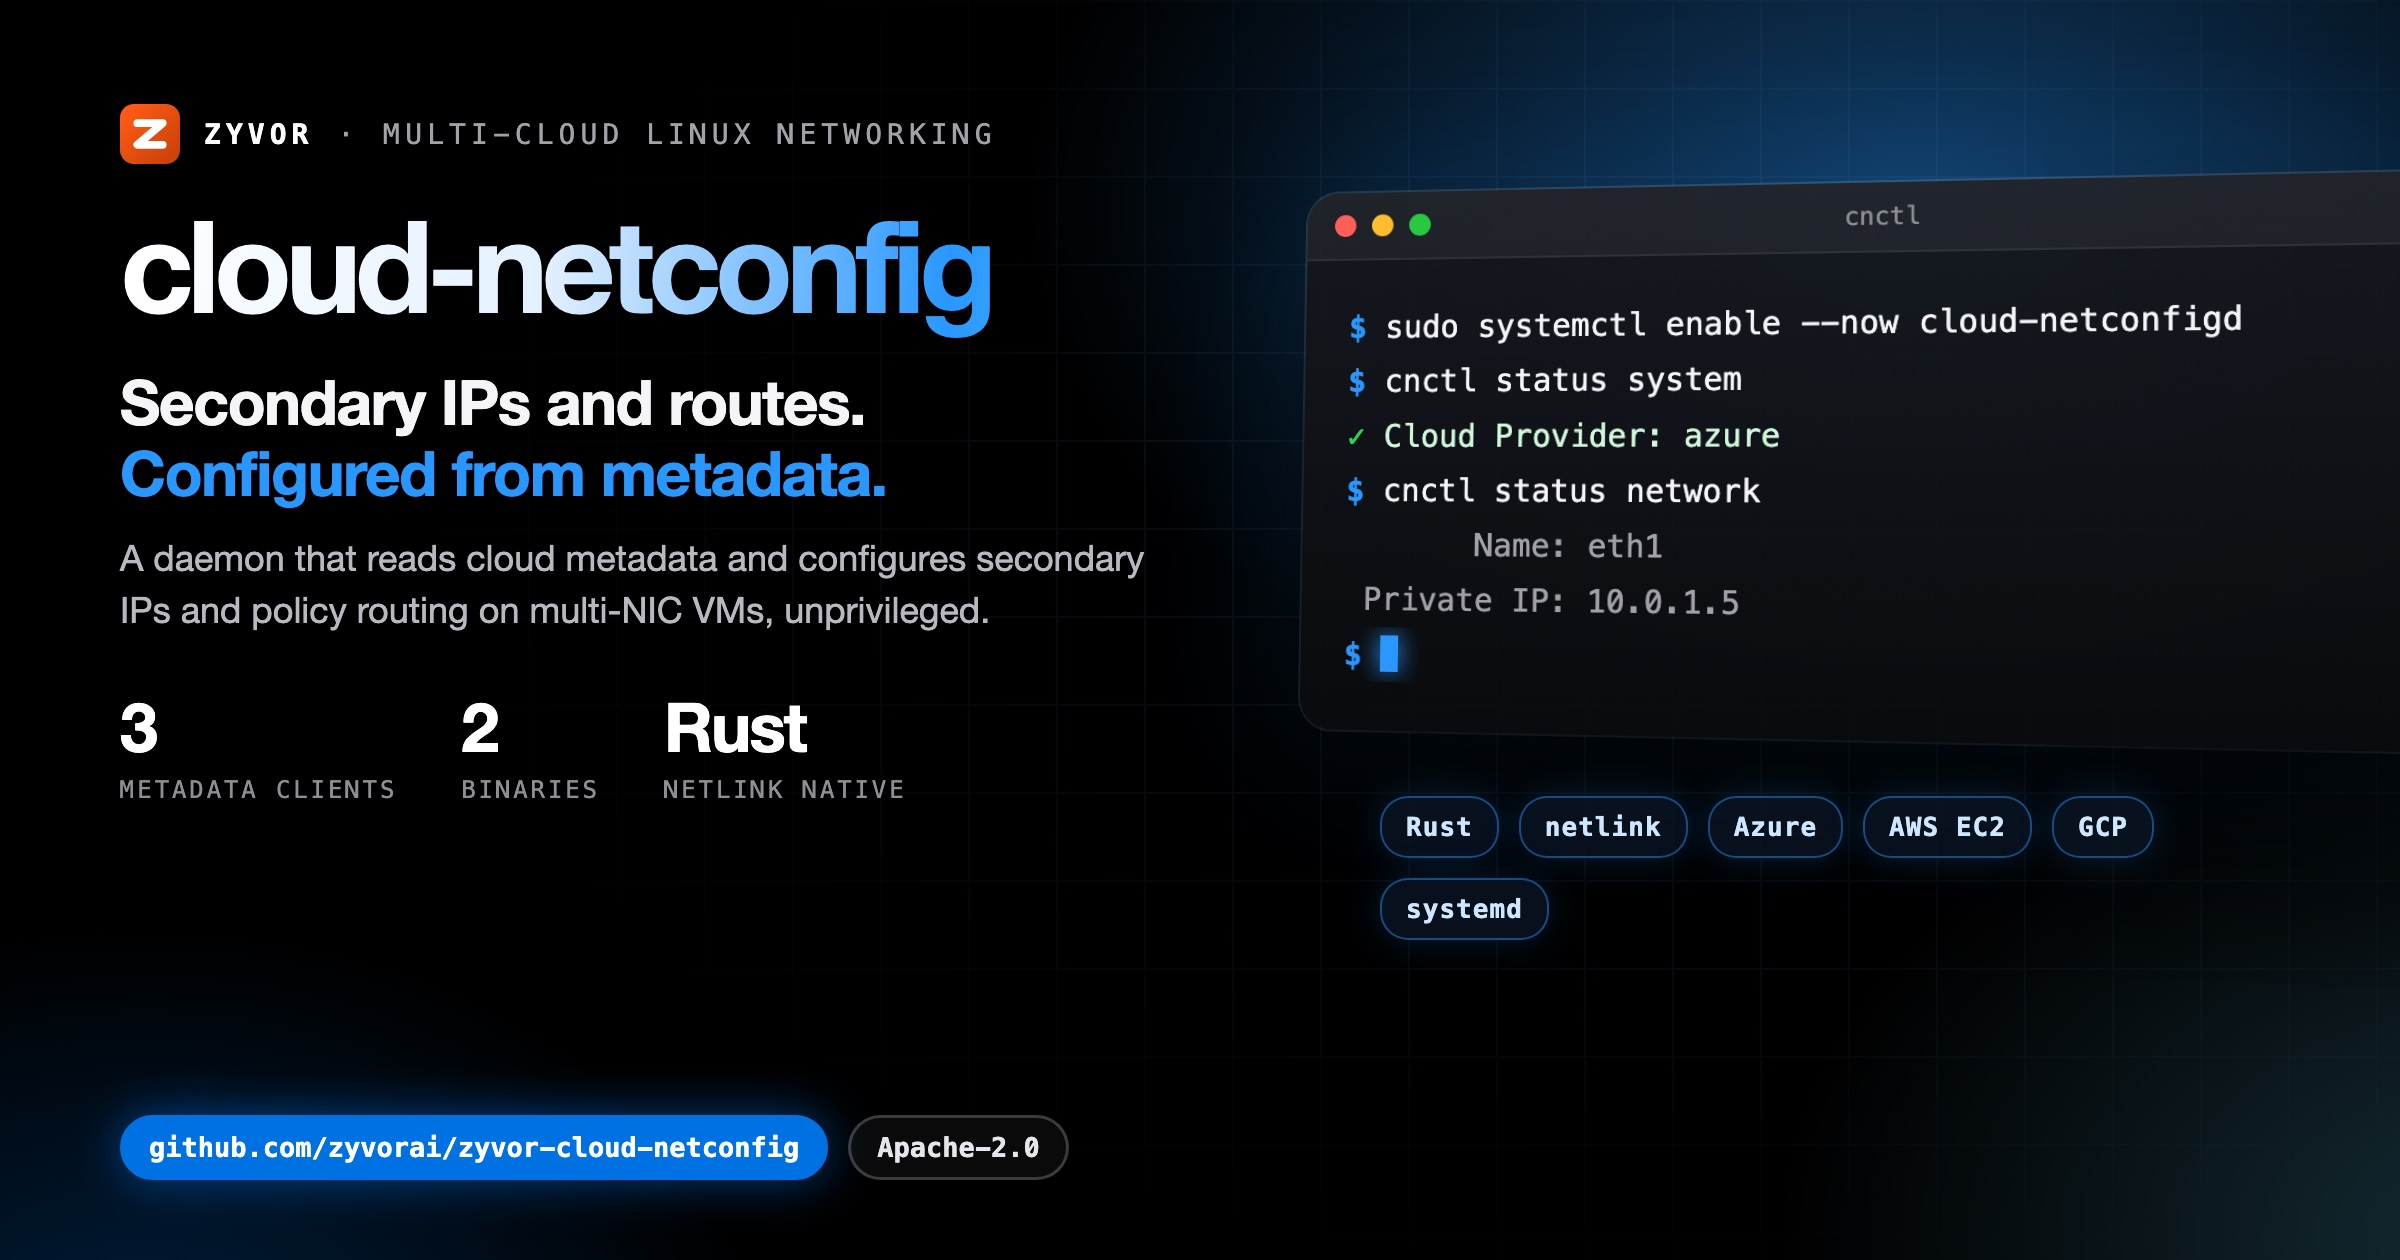
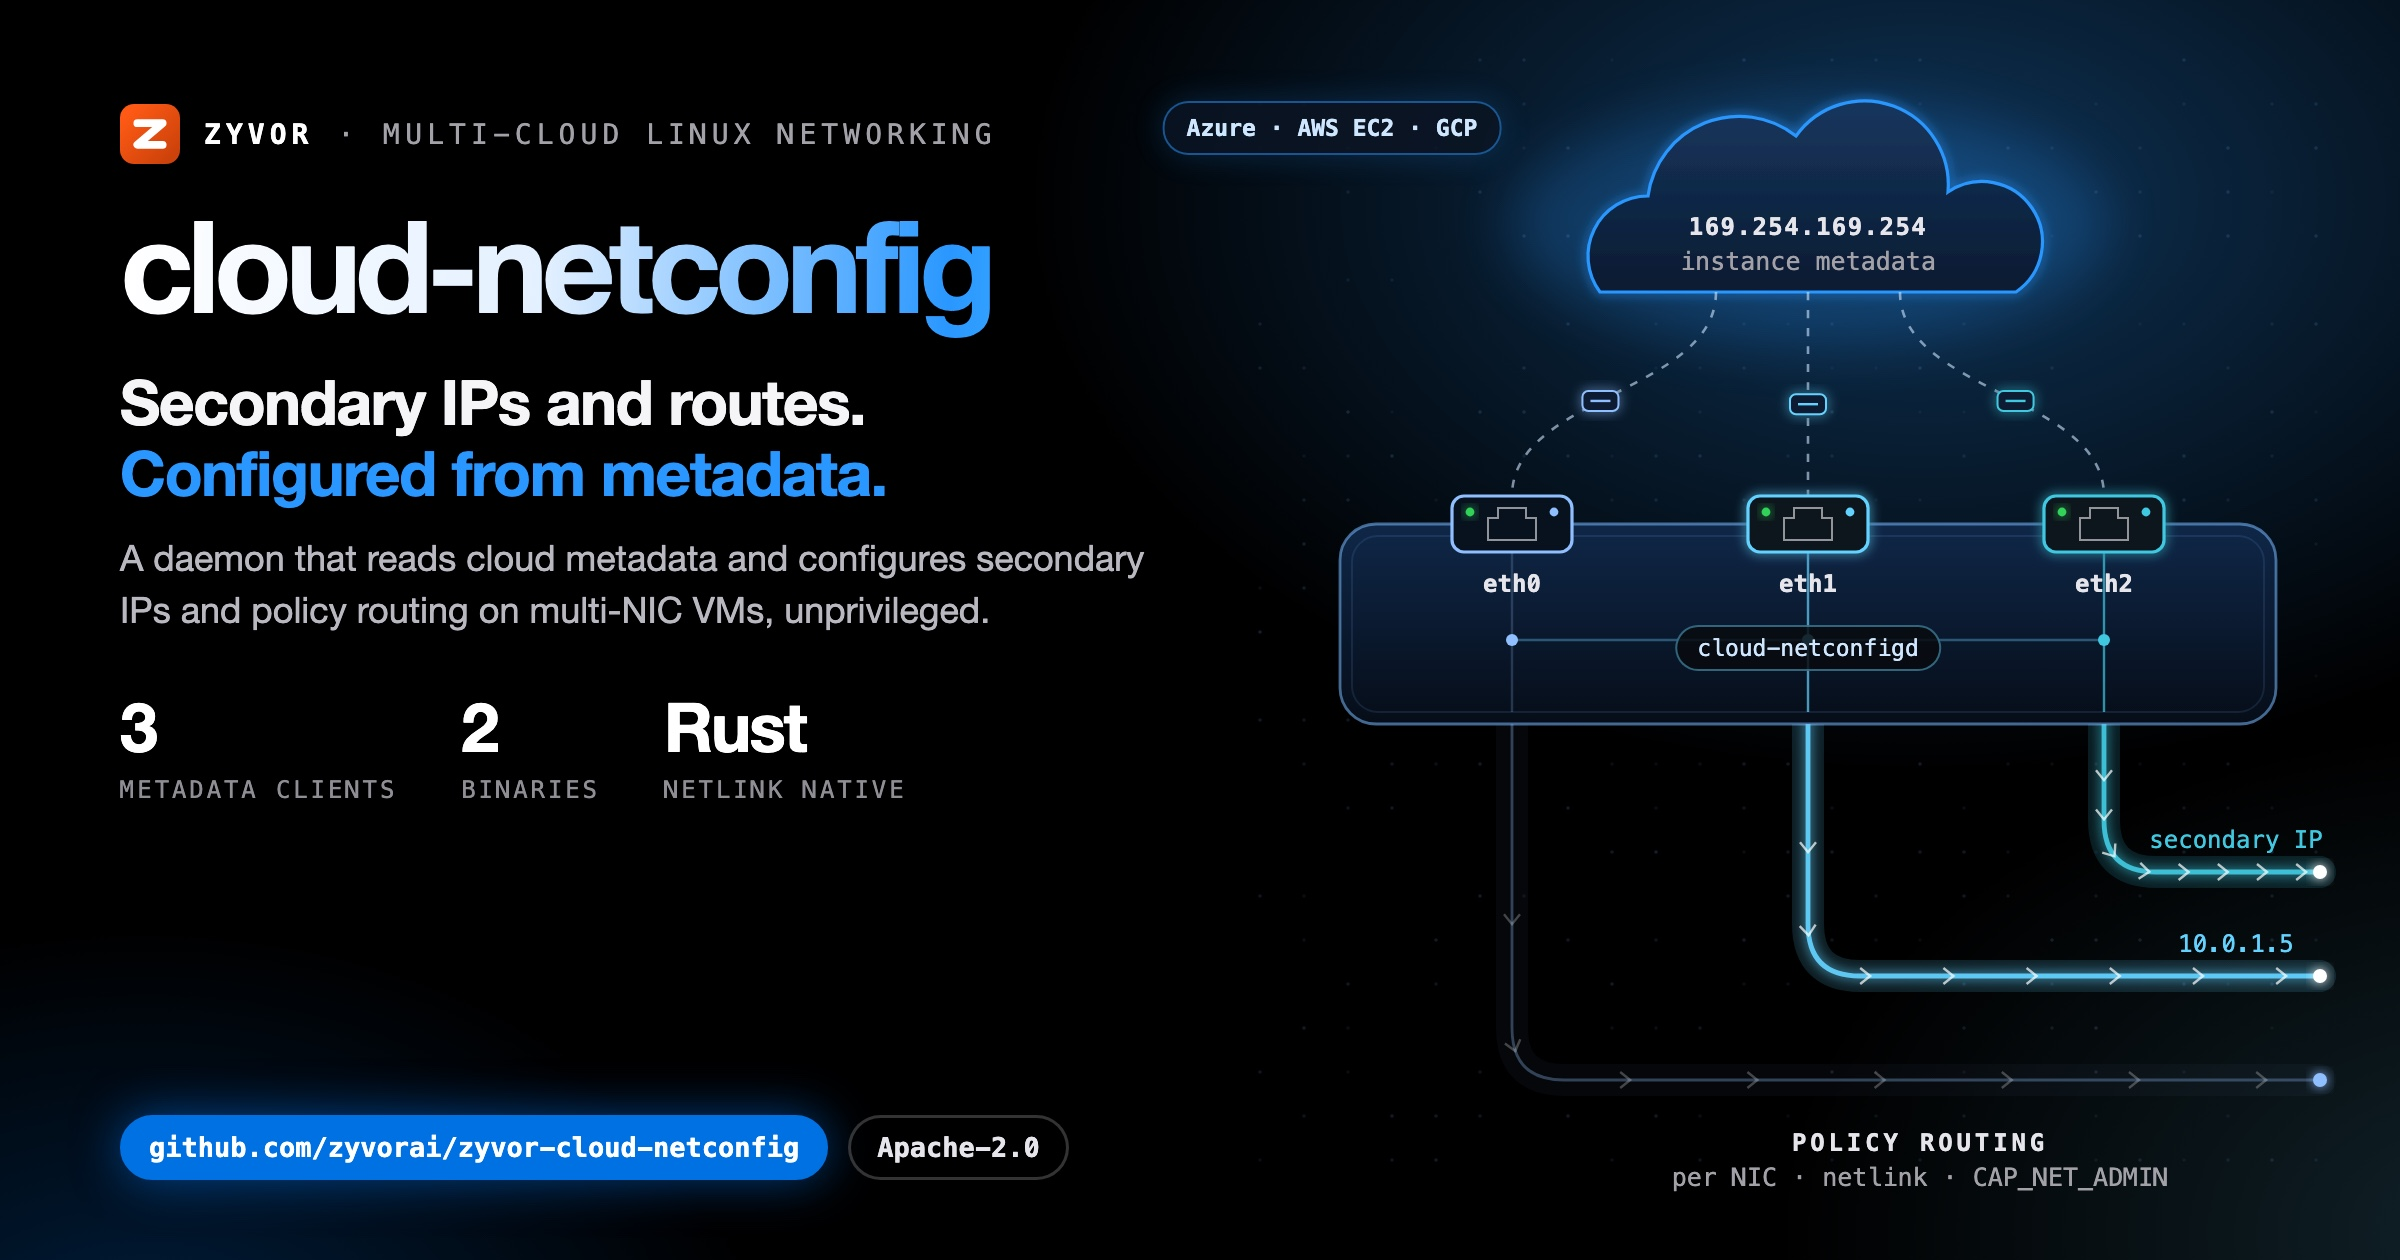
docs(social): unique illustrated hero card
Replace the shared terminal-window art with a motif drawn for this project;
same verified copy and stats on the left.

Changed region(s): [[0.4688, 0.0619, 1.0, 0.8048], [0.6875, 0.8976, 0.9062, 0.9595], [0.6562, 0.8357, 0.9688, 0.8667]]

diff --git a/docs/social/cloud-netconfig-hero-dark.html b/docs/social/cloud-netconfig-hero-dark.html
@@ -8,58 +8,47 @@
   Build: ./docs/social/build-hero-dark.sh  ->  cloud-netconfig-hero-dark.jpg (2400x1260)
 -->
 <style>
-  :root { --blue:#0071e3; --signal:#2997ff; --cyan:#64d2ff; --green:#30d158; --amber:#ff9f0a;
+  :root { --blue:#0071e3; --signal:#2997ff; --cyan:#64d2ff; --green:#30d158; --amber:#ff9f0a; --red:#ff453a; --violet:#bf5af2;
     --sans:'SF Pro Display','Helvetica Neue',Helvetica,Arial,sans-serif; --mono:'SF Mono',Menlo,Consolas,monospace; }
   * { box-sizing:border-box; }
   html,body { margin:0; padding:0; }
   body { width:1200px; height:630px; overflow:hidden; color:#f5f5f7; font-family:var(--sans); position:relative; background:#000; }
   .aurora { position:absolute; inset:0;
-    background:radial-gradient(720px 460px at 80% 16%, rgba(41,151,255,.40), transparent 62%),
-               radial-gradient(600px 420px at 104% 98%, rgba(100,210,255,.20), transparent 60%),
+    background:radial-gradient(720px 460px at 80% 16%, rgba(41,151,255,.34), transparent 62%),
+               radial-gradient(600px 420px at 104% 98%, rgba(100,210,255,.16), transparent 60%),
                radial-gradient(520px 380px at 6% 110%, rgba(0,113,227,.28), transparent 60%); }
-  .grid { position:absolute; inset:0; opacity:.09;
-    background-image:linear-gradient(rgba(120,180,255,.9) 1px,transparent 1px),linear-gradient(90deg,rgba(120,180,255,.9) 1px,transparent 1px);
-    background-size:44px 44px; -webkit-mask-image:radial-gradient(900px 520px at 72% 42%, #000 18%, transparent 75%); }
-  .left { position:absolute; left:60px; top:52px; width:560px; z-index:3; }
+  .copy { position:absolute; left:60px; top:52px; width:560px; z-index:3; }
   .brand { display:flex; align-items:center; gap:12px; font-family:var(--mono); font-size:14px; letter-spacing:.18em; text-transform:uppercase; color:#a1a1a6; }
   .brand b { color:#fff; }
   .word { margin:20px 0 0; font-size:64px; line-height:.95; font-weight:800; letter-spacing:-.05em; white-space:nowrap;
     background:linear-gradient(92deg,#fff 0%,#e3f0ff 38%,var(--signal) 74%,var(--cyan) 100%); -webkit-background-clip:text; background-clip:text; color:transparent; padding-bottom:6px; }
   .tag { margin:14px 0 0; font-size:31px; line-height:1.15; font-weight:700; letter-spacing:-.02em; }
   .tag em { font-style:normal; color:var(--signal); }
-  .lede { margin:12px 0 0; font-size:18px; line-height:1.45; color:#b8b8bf; width:520px; }
+  .lede { margin:12px 0 0; font-size:18px; line-height:1.45; color:#b8b8bf; width:520px; text-shadow:0 1px 12px #000; }
   .stats { margin-top:24px; display:flex; gap:32px; }
   .stat b { display:block; font-size:34px; font-weight:800; letter-spacing:-.03em; color:#fff; }
   .stat span { font-family:var(--mono); font-size:12px; letter-spacing:.12em; text-transform:uppercase; color:#8e8e93; }
   .pill { position:absolute; left:60px; bottom:40px; display:flex; gap:10px; z-index:3; }
-  .pill span { font-family:var(--mono); font-size:13.5px; font-weight:700; padding:7px 13px; border-radius:18px; border:1.5px solid rgba(255,255,255,.2); color:#e5e5ea; background:rgba(255,255,255,.04); }
+  .pill span { font-family:var(--mono); font-size:13.5px; font-weight:700; padding:7px 13px; border-radius:18px; border:1.5px solid rgba(255,255,255,.2); color:#e5e5ea; background:rgba(0,0,0,.6); }
   .pill span.b { background:var(--blue); border-color:var(--blue); color:#fff; box-shadow:0 0 24px rgba(0,113,227,.55); }
-
-  .right { position:absolute; left:652px; top:96px; width:560px; z-index:2; }
-  .win { position:relative; width:560px; border-radius:16px; overflow:hidden; z-index:2;
-    background:linear-gradient(180deg, rgba(22,24,30,.94), rgba(10,11,14,.96));
-    box-shadow:0 50px 100px rgba(0,0,0,.75), 0 0 0 1px rgba(255,255,255,.14), 0 0 90px rgba(41,151,255,.22);
-    transform:perspective(1600px) rotateY(-14deg) rotateX(4deg); transform-origin:left center; }
-  .bar { height:34px; display:flex; align-items:center; gap:8px; padding:0 14px; background:rgba(255,255,255,.05); border-bottom:1px solid rgba(255,255,255,.07); }
-  .bar i { width:11px; height:11px; border-radius:50%; background:#ff5f57; } .bar i:nth-child(2){background:#febc2e} .bar i:nth-child(3){background:#28c840}
-  .bar em { margin-left:auto; margin-right:auto; font-style:normal; font-family:var(--mono); font-size:12px; color:#8e8e93; transform:translateX(-24px); }
-  .term { min-height:214px; padding:20px 22px 24px; font-family:var(--mono); font-size:15.5px; line-height:1.75; }
-  .l { white-space:pre; overflow:hidden; text-overflow:ellipsis; color:#f5f5f7; }
-  .l .p { color:var(--signal); font-weight:700; }
-  .l.out { color:#a1a1a6; }
-  .l.cm { color:#6e6e73; }
-  .l.ok { color:#d1f7dc; } .l.ok span { color:var(--green); font-weight:700; }
-  .l.warn { color:#ffe1b0; } .l.warn span { color:var(--amber); font-weight:700; }
-  .cur { display:inline-block; width:9px; height:18px; background:var(--signal); vertical-align:-3px; box-shadow:0 0 12px var(--signal); }
-  .chips { margin:34px 0 0 38px; width:480px; display:flex; flex-wrap:wrap; gap:10px; position:relative; z-index:3; }
-  .chips span { font-family:var(--mono); font-size:13px; font-weight:700; letter-spacing:.04em; padding:7px 12px; border-radius:14px;
-    color:#cfe6ff; background:rgba(10,20,35,.82); border:1px solid rgba(41,151,255,.45); box-shadow:0 0 18px rgba(41,151,255,.18); }
+  .art { position:absolute; left:520px; top:0; width:680px; height:630px; z-index:2; }
+  .art svg { display:block; }
+  #labels { position:absolute; inset:0; z-index:4; pointer-events:none; }
+  .lbl { position:absolute; font-family:var(--mono); font-size:12.5px; color:#a1a1a6; text-align:center; transform:translate(-50%,-50%); white-space:nowrap; }
+  .lbl b { display:block; font-size:12px; letter-spacing:.16em; text-transform:uppercase; color:#e5e5ea; }
+  .lbl span { display:block; margin-top:3px; }
+  .lbl.box { padding:7px 12px; border-radius:12px; background:rgba(8,10,14,.85); border:1px solid rgba(255,255,255,.14); }
+  .lbl.chip { padding:6px 11px; border-radius:13px; font-size:12.5px; font-weight:700; color:#cfe6ff; background:rgba(10,20,35,.85); border:1px solid rgba(41,151,255,.5); box-shadow:0 0 16px rgba(41,151,255,.2); }
+  .lbl.left { transform:translate(0,-50%); text-align:left; }
+  .lbl.right { transform:translate(-100%,-50%); text-align:right; }
+  .ok { color:var(--green) !important; } .warn { color:var(--amber) !important; } .bad { color:var(--red) !important; } .sig { color:var(--signal) !important; } .cy { color:var(--cyan) !important; } .vi { color:var(--violet) !important; }
 </style>
 </head>
 <body>
 <div class="aurora"></div>
-<div class="grid"></div>
-<div class="left">
+<div class="art"><svg id="art" width="680" height="630" viewBox="0 0 680 630" xmlns="http://www.w3.org/2000/svg"></svg></div>
+<div id="labels"></div>
+<div class="copy">
   <div class="brand"><svg viewBox="0 0 64 64" width="30" height="30" aria-hidden="true"><defs><linearGradient id="zb" x1="8" y1="8" x2="56" y2="56" gradientUnits="userSpaceOnUse"><stop offset="0" stop-color="#ff5a15"/><stop offset="1" stop-color="#cc420a"/></linearGradient></defs><rect width="64" height="64" rx="15" fill="url(#zb)"/><path d="M18.5,20.5 45.5,20.5 18.5,43.5 45.5,43.5" fill="none" stroke="#fff" stroke-width="8.3" stroke-linecap="round" stroke-linejoin="round"/></svg><b>Zyvor</b><span>&middot;</span><span>Multi-cloud Linux networking</span></div>
   <div class="word">cloud-netconfig</div>
   <div class="tag">Secondary IPs and routes.<br><em>Configured from metadata.</em></div>
@@ -67,8 +56,100 @@
   <div class="stats"><div class="stat"><b>3</b><span>metadata clients</span></div><div class="stat"><b>2</b><span>binaries</span></div><div class="stat"><b>Rust</b><span>netlink native</span></div></div>
 </div>
 <div class="pill"><span class="b">github.com/zyvorai/zyvor-cloud-netconfig</span><span>Apache-2.0</span></div>
-<div class="right"><div class="win"><div class="bar"><i></i><i></i><i></i><em>cnctl</em></div>
-<div class="term"><div class="l"><span class="p">$</span> sudo systemctl enable --now cloud-netconfigd</div><div class="l"><span class="p">$</span> cnctl status system</div><div class="l ok"><span>&#10003;</span> Cloud Provider: azure</div><div class="l"><span class="p">$</span> cnctl status network</div><div class="l out">       Name: eth1</div><div class="l out"> Private IP: 10.0.1.5</div><div class="l"><span class="p">$</span> <i class="cur"></i></div></div></div>
-<div class="chips"><span>Rust</span><span>netlink</span><span>Azure</span><span>AWS EC2</span><span>GCP</span><span>systemd</span></div></div>
+<script>
+var Z = (function () {
+  var NS = 'http://www.w3.org/2000/svg', svg = document.getElementById('art'), labels = document.getElementById('labels');
+  var seed = 20261004;
+  function rnd() { seed = (seed * 1103515245 + 12345) % 2147483648; return seed / 2147483648; }
+  function el(tag, a, parent) { var n = document.createElementNS(NS, tag); for (var k in a) n.setAttribute(k, a[k]); (parent || svg).appendChild(n); return n; }
+  function g(attrs) { return el('g', attrs || {}); }
+  function label(x, y, inner, cls, style) { var d = document.createElement('div'); d.className = 'lbl ' + (cls || ''); d.style.left = (520 + x) + 'px'; d.style.top = y + 'px'; if (style) d.setAttribute('style', d.getAttribute('style') + ';' + style); d.innerHTML = inner; labels.appendChild(d); return d; }
+  return { NS: NS, svg: svg, W: 680, H: 630, rnd: rnd, el: el, g: g, label: label,
+    reseed: function (s) { seed = s; },
+    c: { blue: '#0071e3', signal: '#2997ff', cyan: '#64d2ff', green: '#30d158', amber: '#ff9f0a', red: '#ff453a', violet: '#bf5af2', teal: '#40c8e0', indigo: '#5e5ce6', pink: '#ff375f', white: '#f5f5f7', grey: '#8e8e93' } };
+})();
+(function () {
+// cloud-netconfig: a multi-NIC VM under the cloud metadata endpoint (169.254.169.254).
+// Dashed metadata drops land on each NIC port; each NIC leaves the VM on its own glowing policy-routing lane.
+var C = Z.c;
+var defs = Z.el('defs', {});
+defs.innerHTML = '<filter id="cnGl" x="-50%" y="-50%" width="200%" height="200%"><feGaussianBlur stdDeviation="3" result="b"/><feMerge><feMergeNode in="b"/><feMergeNode in="SourceGraphic"/></feMerge></filter>' +
+  '<filter id="cnSf" x="-50%" y="-50%" width="200%" height="200%"><feGaussianBlur stdDeviation="14"/></filter>' +
+  '<linearGradient id="cnVm" x1="0" y1="0" x2="0" y2="1"><stop offset="0" stop-color="#0f2748"/><stop offset="1" stop-color="#060d18"/></linearGradient>' +
+  '<linearGradient id="cnCl" x1="0" y1="0" x2="0" y2="1"><stop offset="0" stop-color="#16365e"/><stop offset="1" stop-color="#0a1a30"/></linearGradient>';
+
+// faint dotted backplane
+for (var gx = 110; gx <= 650; gx += 22) for (var gy = 30; gy <= 600; gy += 22) {
+  if (Z.rnd() < 0.55) continue;
+  Z.el('circle', { cx: gx, cy: gy, r: .9, fill: '#7fb6ff', opacity: (0.06 + Z.rnd() * 0.1).toFixed(2) });
+}
+
+var nics = [
+  { n: 'eth0', x: 236, col: '#5e7fa8', laneY: 540, dim: 1 },
+  { n: 'eth1', x: 384, col: C.cyan, laneY: 488 },
+  { n: 'eth2', x: 532, col: C.teal, laneY: 436 }
+];
+var vmX = 150, vmY = 262, vmW = 468, vmH = 100;
+
+// cloud metadata endpoint
+var mx = 384, my = 112;
+Z.el('ellipse', { cx: mx, cy: my, rx: 150, ry: 60, fill: '#2997ff', opacity: .22, filter: 'url(#cnSf)' });
+var cloud = 'M' + (mx - 104) + ',' + (my + 34) + ' A30,30 0 0 1 ' + (mx - 80) + ',' + (my - 14) + ' A46,46 0 0 1 ' + (mx - 6) + ',' + (my - 44) +
+  ' A42,42 0 0 1 ' + (mx + 70) + ',' + (my - 16) + ' A30,30 0 0 1 ' + (mx + 104) + ',' + (my + 34) + ' Z';
+Z.el('path', { d: cloud, fill: 'url(#cnCl)', stroke: C.signal, 'stroke-width': 1.6, filter: 'url(#cnGl)' });
+Z.label(mx, my + 10, '<b style="letter-spacing:.06em">169.254.169.254</b><span>instance metadata</span>');
+
+// metadata drops to each NIC
+nics.forEach(function (n, k) {
+  var sx = mx + (k - 1) * 46, sy = my + 34, ey = vmY - 14;
+  var d = 'M' + sx + ',' + sy + ' C' + sx + ',' + (sy + 50) + ' ' + n.x + ',' + (ey - 50) + ' ' + n.x + ',' + ey;
+  Z.el('path', { d: d, fill: 'none', stroke: '#cfe6ff', 'stroke-width': 1.3, 'stroke-dasharray': '4 5', opacity: .6 });
+  var tp = Z.el('path', { d: d, fill: 'none', stroke: 'none' }), L = tp.getTotalLength(), q = tp.getPointAtLength(L * 0.55);
+  Z.el('rect', { x: q.x - 9, y: q.y - 5, width: 18, height: 10, rx: 3, fill: '#0a1a30', stroke: n.dim ? '#8fbfff' : n.col, 'stroke-width': 1, filter: 'url(#cnGl)' });
+  Z.el('line', { x1: q.x - 5, y1: q.y, x2: q.x + 5, y2: q.y, stroke: n.dim ? '#8fbfff' : n.col, 'stroke-width': 1.2 });
+});
+
+// policy routing lanes (drawn before the VM so they emerge from its bottom edge)
+nics.forEach(function (n) {
+  var y0 = vmY + vmH - 6, r = 26;
+  var d = 'M' + n.x + ',' + y0 + ' L' + n.x + ',' + (n.laneY - r) + ' Q' + n.x + ',' + n.laneY + ' ' + (n.x + r) + ',' + n.laneY + ' L' + 640 + ',' + n.laneY;
+  Z.el('path', { d: d, fill: 'none', stroke: n.col, 'stroke-width': 16, 'stroke-linecap': 'round', opacity: n.dim ? .06 : .14 });
+  Z.el('path', { d: d, fill: 'none', stroke: n.col, 'stroke-width': n.dim ? 1.4 : 2.4, opacity: n.dim ? .5 : .95, filter: n.dim ? null : 'url(#cnGl)' });
+  var tp = Z.el('path', { d: d, fill: 'none', stroke: 'none' }), L = tp.getTotalLength();
+  for (var f = 0.18; f < 0.98; f += 0.11) {
+    var q = tp.getPointAtLength(L * f), q2 = tp.getPointAtLength(L * f + 1), ang = Math.atan2(q2.y - q.y, q2.x - q.x) * 180 / Math.PI;
+    Z.el('path', { d: 'M-3,-4 L2,0 L-3,4', transform: 'translate(' + q.x.toFixed(1) + ',' + q.y.toFixed(1) + ') rotate(' + ang.toFixed(1) + ')', fill: 'none', stroke: '#fff', 'stroke-width': 1.2, opacity: n.dim ? .25 : .7 });
+  }
+  Z.el('circle', { cx: 640, cy: n.laneY, r: 3.5, fill: n.dim ? '#8fbfff' : '#fff', filter: 'url(#cnGl)' });
+});
+
+// VM chassis
+Z.el('rect', { x: vmX, y: vmY, width: vmW, height: vmH, rx: 18, fill: 'url(#cnVm)', stroke: 'rgba(120,185,255,.55)', 'stroke-width': 1.4 });
+Z.el('rect', { x: vmX + 6, y: vmY + 6, width: vmW - 12, height: vmH - 12, rx: 13, fill: 'none', stroke: 'rgba(120,185,255,.12)' });
+// internal bus from daemon to each NIC
+var busY = vmY + 58;
+Z.el('line', { x1: nics[0].x, y1: busY, x2: nics[2].x, y2: busY, stroke: 'rgba(100,210,255,.35)', 'stroke-width': 1.2 });
+nics.forEach(function (n) {
+  Z.el('line', { x1: n.x, y1: vmY + 12, x2: n.x, y2: vmY + vmH - 6, stroke: n.col, 'stroke-width': 1.2, opacity: n.dim ? .35 : .7 });
+  Z.el('circle', { cx: n.x, cy: busY, r: 3, fill: n.dim ? '#8fbfff' : n.col });
+});
+// NIC ports on the top edge
+nics.forEach(function (n) {
+  var g = Z.g({ transform: 'translate(' + n.x + ',' + vmY + ')' });
+  Z.el('rect', { x: -30, y: -14, width: 60, height: 28, rx: 6, fill: '#08121f', stroke: n.dim ? '#8fbfff' : n.col, 'stroke-width': 1.6, filter: n.dim ? null : 'url(#cnGl)' }, g);
+  Z.el('path', { d: 'M-12,8 L-12,-3 L-7,-3 L-7,-8 L7,-8 L7,-3 L12,-3 L12,8 Z', fill: 'none', stroke: 'rgba(255,255,255,.55)', 'stroke-width': 1 }, g);
+  Z.el('circle', { cx: -21, cy: -6, r: 2.2, fill: C.green, filter: 'url(#cnGl)' }, g);
+  Z.el('circle', { cx: 21, cy: -6, r: 2.2, fill: n.dim ? '#8fbfff' : n.col }, g);
+  Z.label(n.x, vmY + 30, n.n, '', 'color:#e5e5ea;font-weight:700;font-size:12px');
+});
+Z.label(nics[1].x, busY + 4, '<span style="margin:0;color:#cfe6ff">cloud-netconfigd</span>', 'box', 'font-size:11.5px;padding:4px 10px;border-color:rgba(100,210,255,.45)');
+
+// lane caption
+Z.label(598, nics[1].laneY - 16, '10.0.1.5', '', 'color:#64d2ff;font-size:12px');
+Z.label(598, nics[2].laneY - 16, 'secondary IP', '', 'color:#40c8e0;font-size:12px');
+Z.label(440, 580, '<b>policy routing</b><span>per NIC &middot; netlink &middot; CAP_NET_ADMIN</span>');
+Z.label(146, 64, 'Azure &middot; AWS EC2 &middot; GCP', 'chip', 'font-size:11.5px');
+})();
+</script>
 </body>
 </html>
